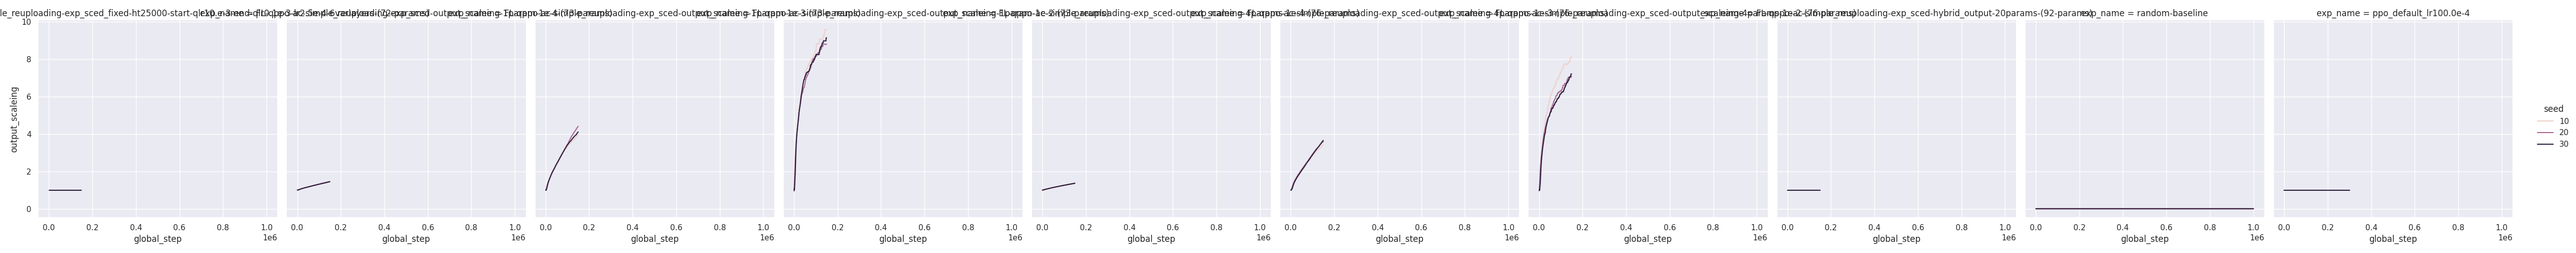
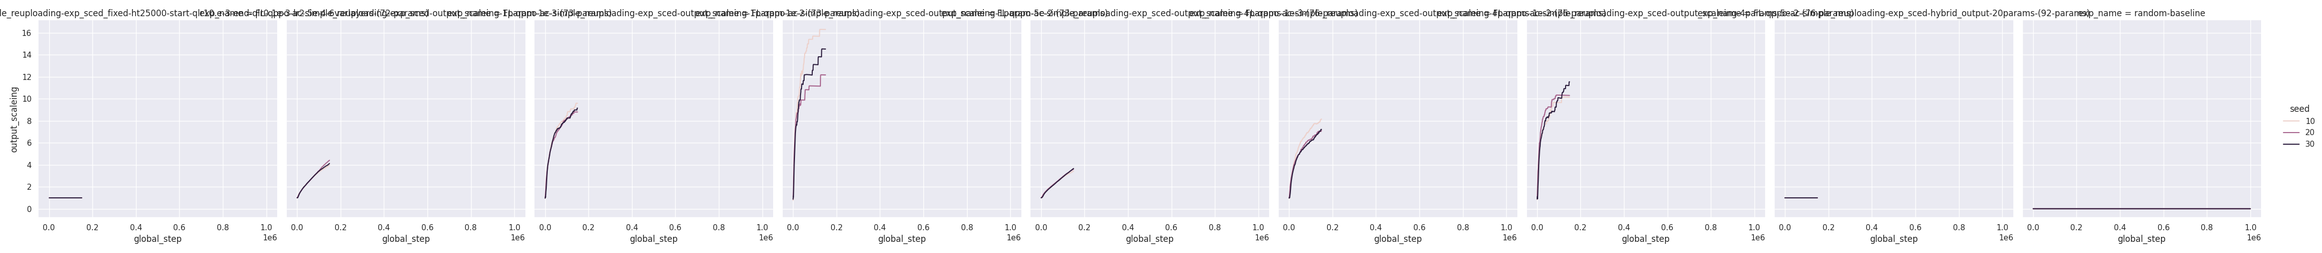
new tests

diff --git a/test_log.py b/test_log.py
@@ -799,28 +799,27 @@ max_steps = 150000
 
 plot_test_avg(results_dir, plot_dir, gym_id, exp_names, seeds, stepsize, max_steps)
 
-
+"""
 plot_dir = plots_dir + "/FL-actor-Test-1-output-scaleing"
 gym_id = "Deterministic-ShortestPath-4x4-FrozenLake-v0"
 exp_names = [
     "FL-qppo-simple_reuploading-exp_sced_fixed-ht25000-start-qlr10.e-3-end-qlr0.1e-3-lr2.5e-4-6varlayers-(72-params)",
-    "FL-qppo-ac-simple_reuploading-exp_sced-output_scaleing-1param-1e-4-(73-params)",
     "FL-qppo-ac-simple_reuploading-exp_sced-output_scaleing-1param-1e-3-(73-params)",
     "FL-qppo-ac-simple_reuploading-exp_sced-output_scaleing-1param-1e-2-(73-params)",
-    "FL-qppo-ac-simple_reuploading-exp_sced-output_scaleing-4params-1e-4-(76-params)",
+    "FL-qppo-ac-simple_reuploading-exp_sced-output_scaleing-1param-5e-2-(73-params)",
     "FL-qppo-ac-simple_reuploading-exp_sced-output_scaleing-4params-1e-3-(76-params)",
     "FL-qppo-ac-simple_reuploading-exp_sced-output_scaleing-4params-1e-2-(76-params)",
+    "FL-qppo-ac-simple_reuploading-exp_sced-output_scaleing-4params-5e-2-(76-params)",
     "FL-qppo-ac-simple_reuploading-exp_sced-hybrid_output-20params-(92-params)",
     "random-baseline",
-    "ppo_default_lr100.0e-4",
 ]
 seeds = [10, 20, 30]
 stepsize = 4 * 128 * 8
 max_steps = 150000
 
 plot_test_avg(results_dir, plot_dir, gym_id, exp_names, seeds, stepsize, max_steps)
-"""
 
+"""
 plot_dir = plots_dir + "/FL-actor-Test-1a-output-scaleing-1-param"
 gym_id = "Deterministic-ShortestPath-4x4-FrozenLake-v0"
 exp_names = [
@@ -858,7 +857,7 @@ max_steps = 150000
 
 plot_test_avg(results_dir, plot_dir, gym_id, exp_names, seeds, stepsize, max_steps)
 
-"""
+
 plot_dir = plots_dir + "/FL-actor-Test-1b-output-scaleing"
 gym_id = "Deterministic-ShortestPath-4x4-FrozenLake-v0"
 exp_names = [
